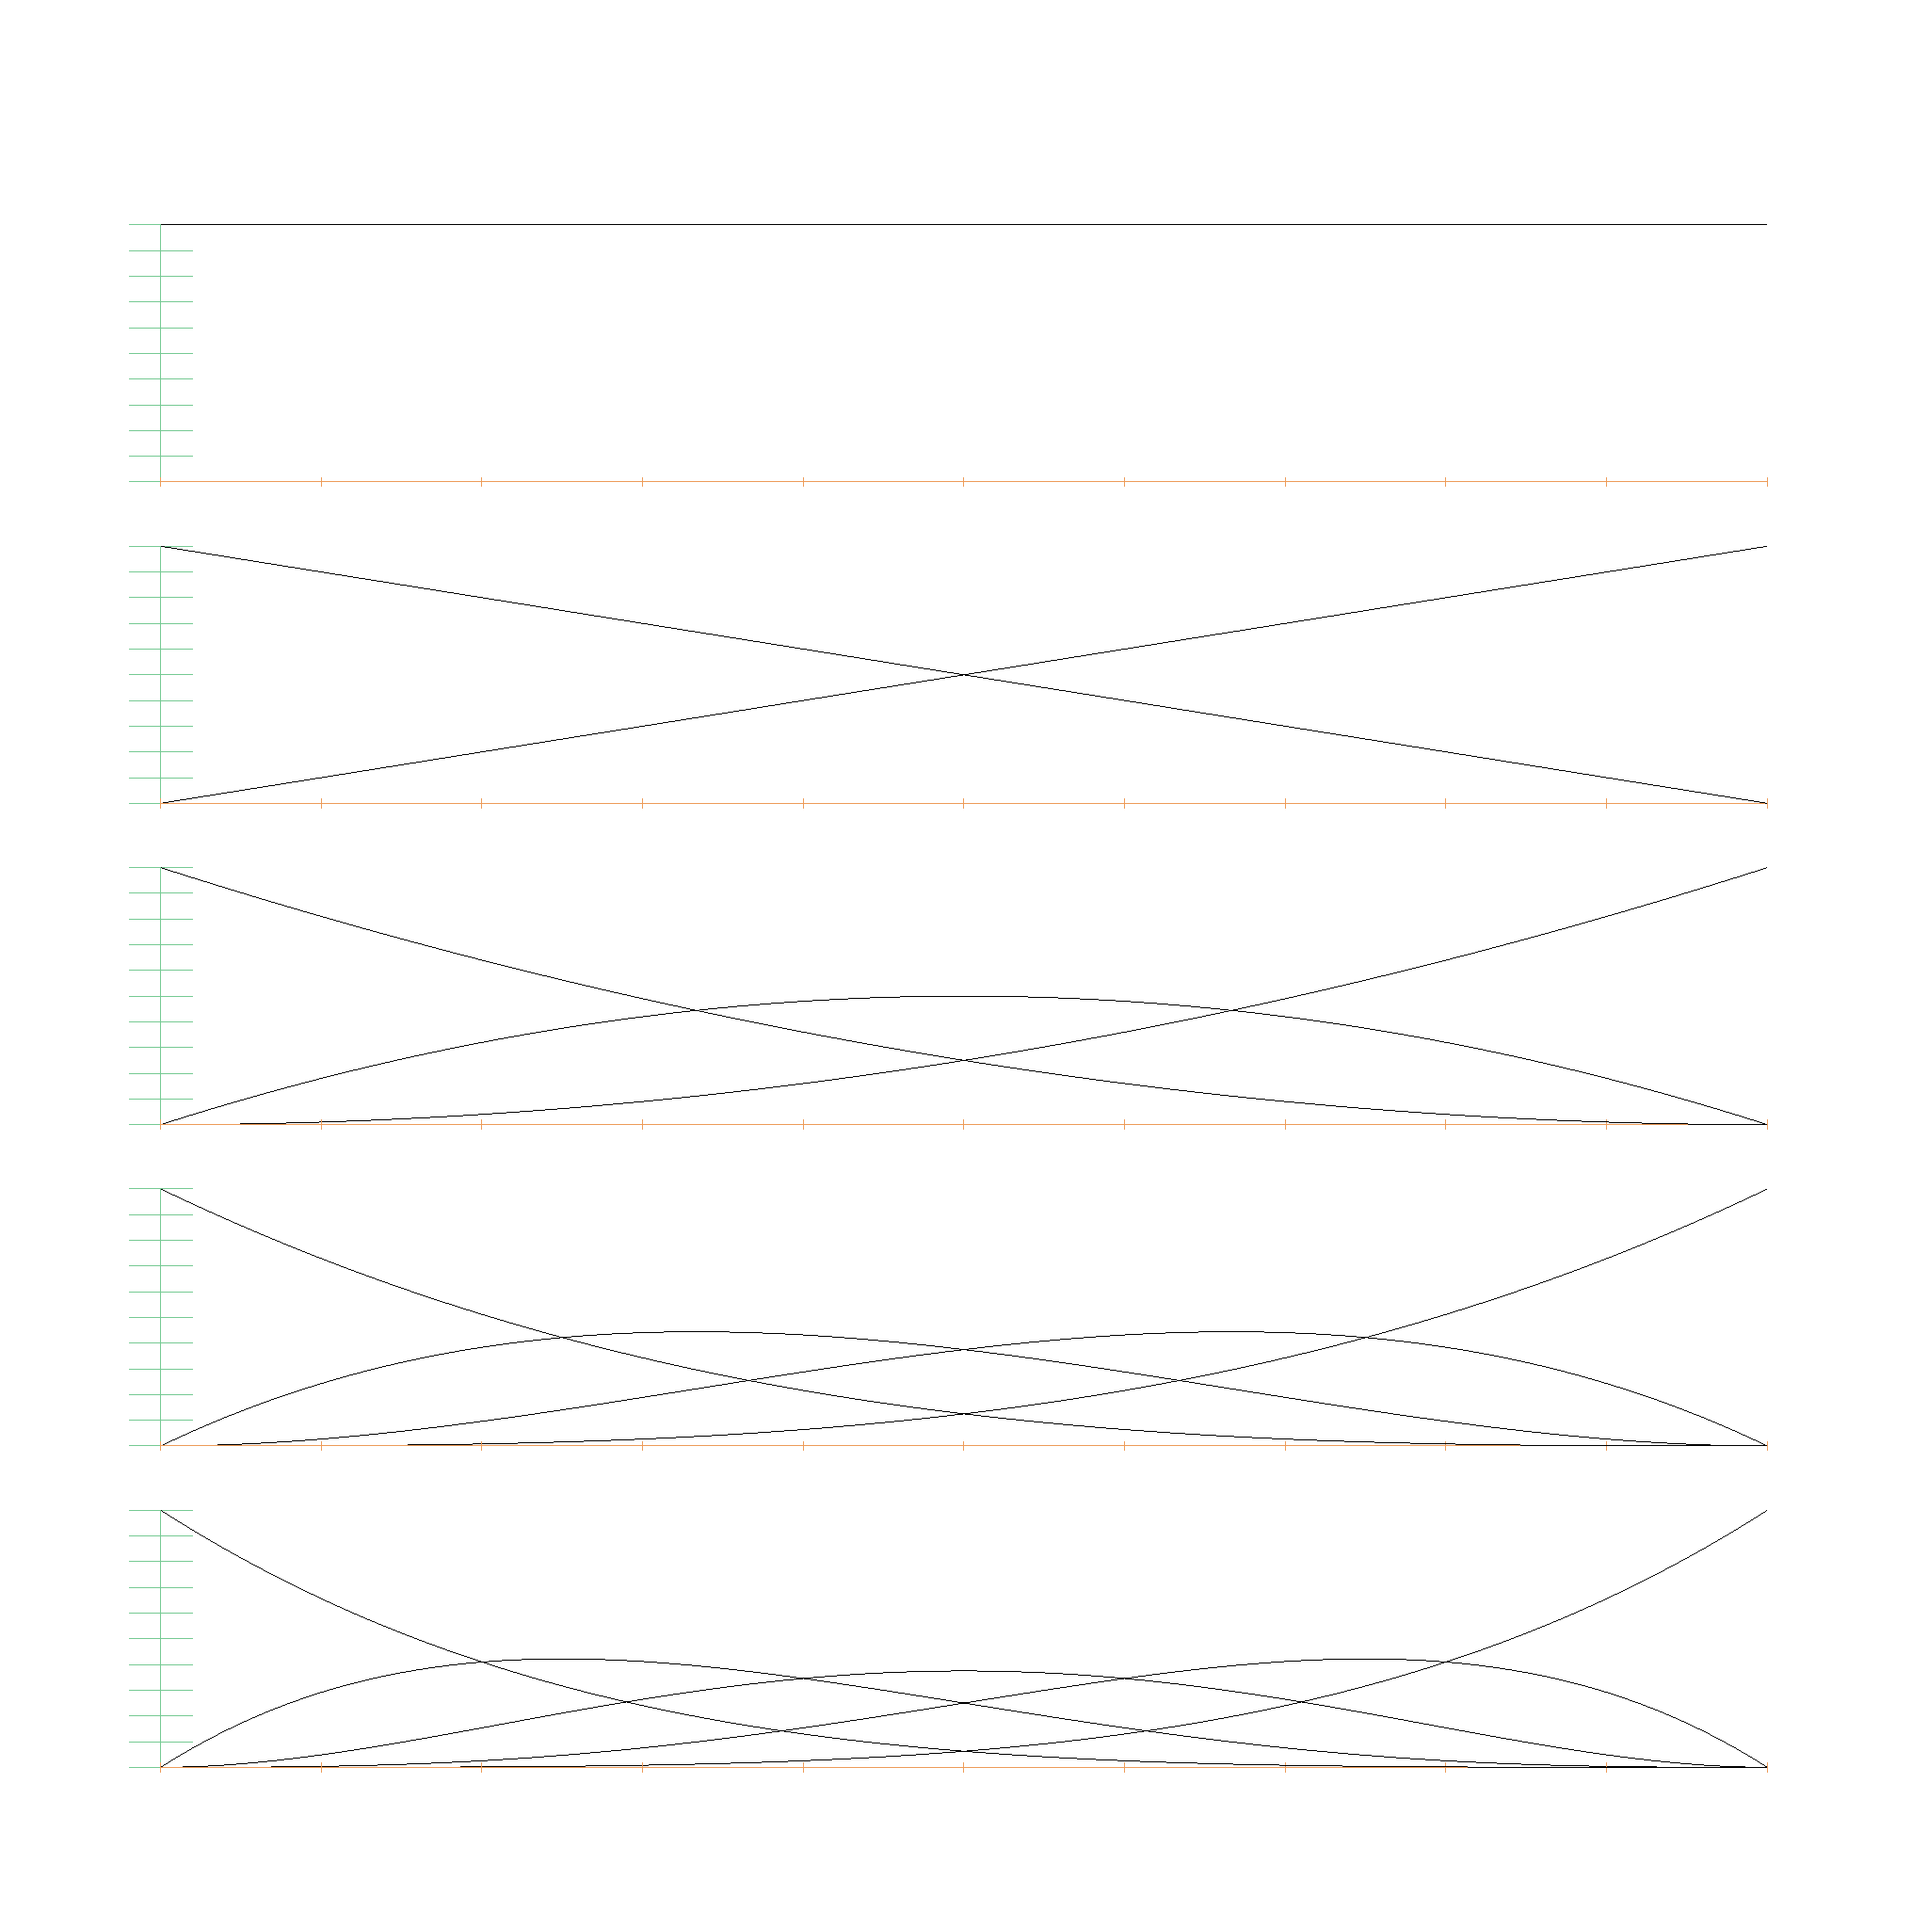
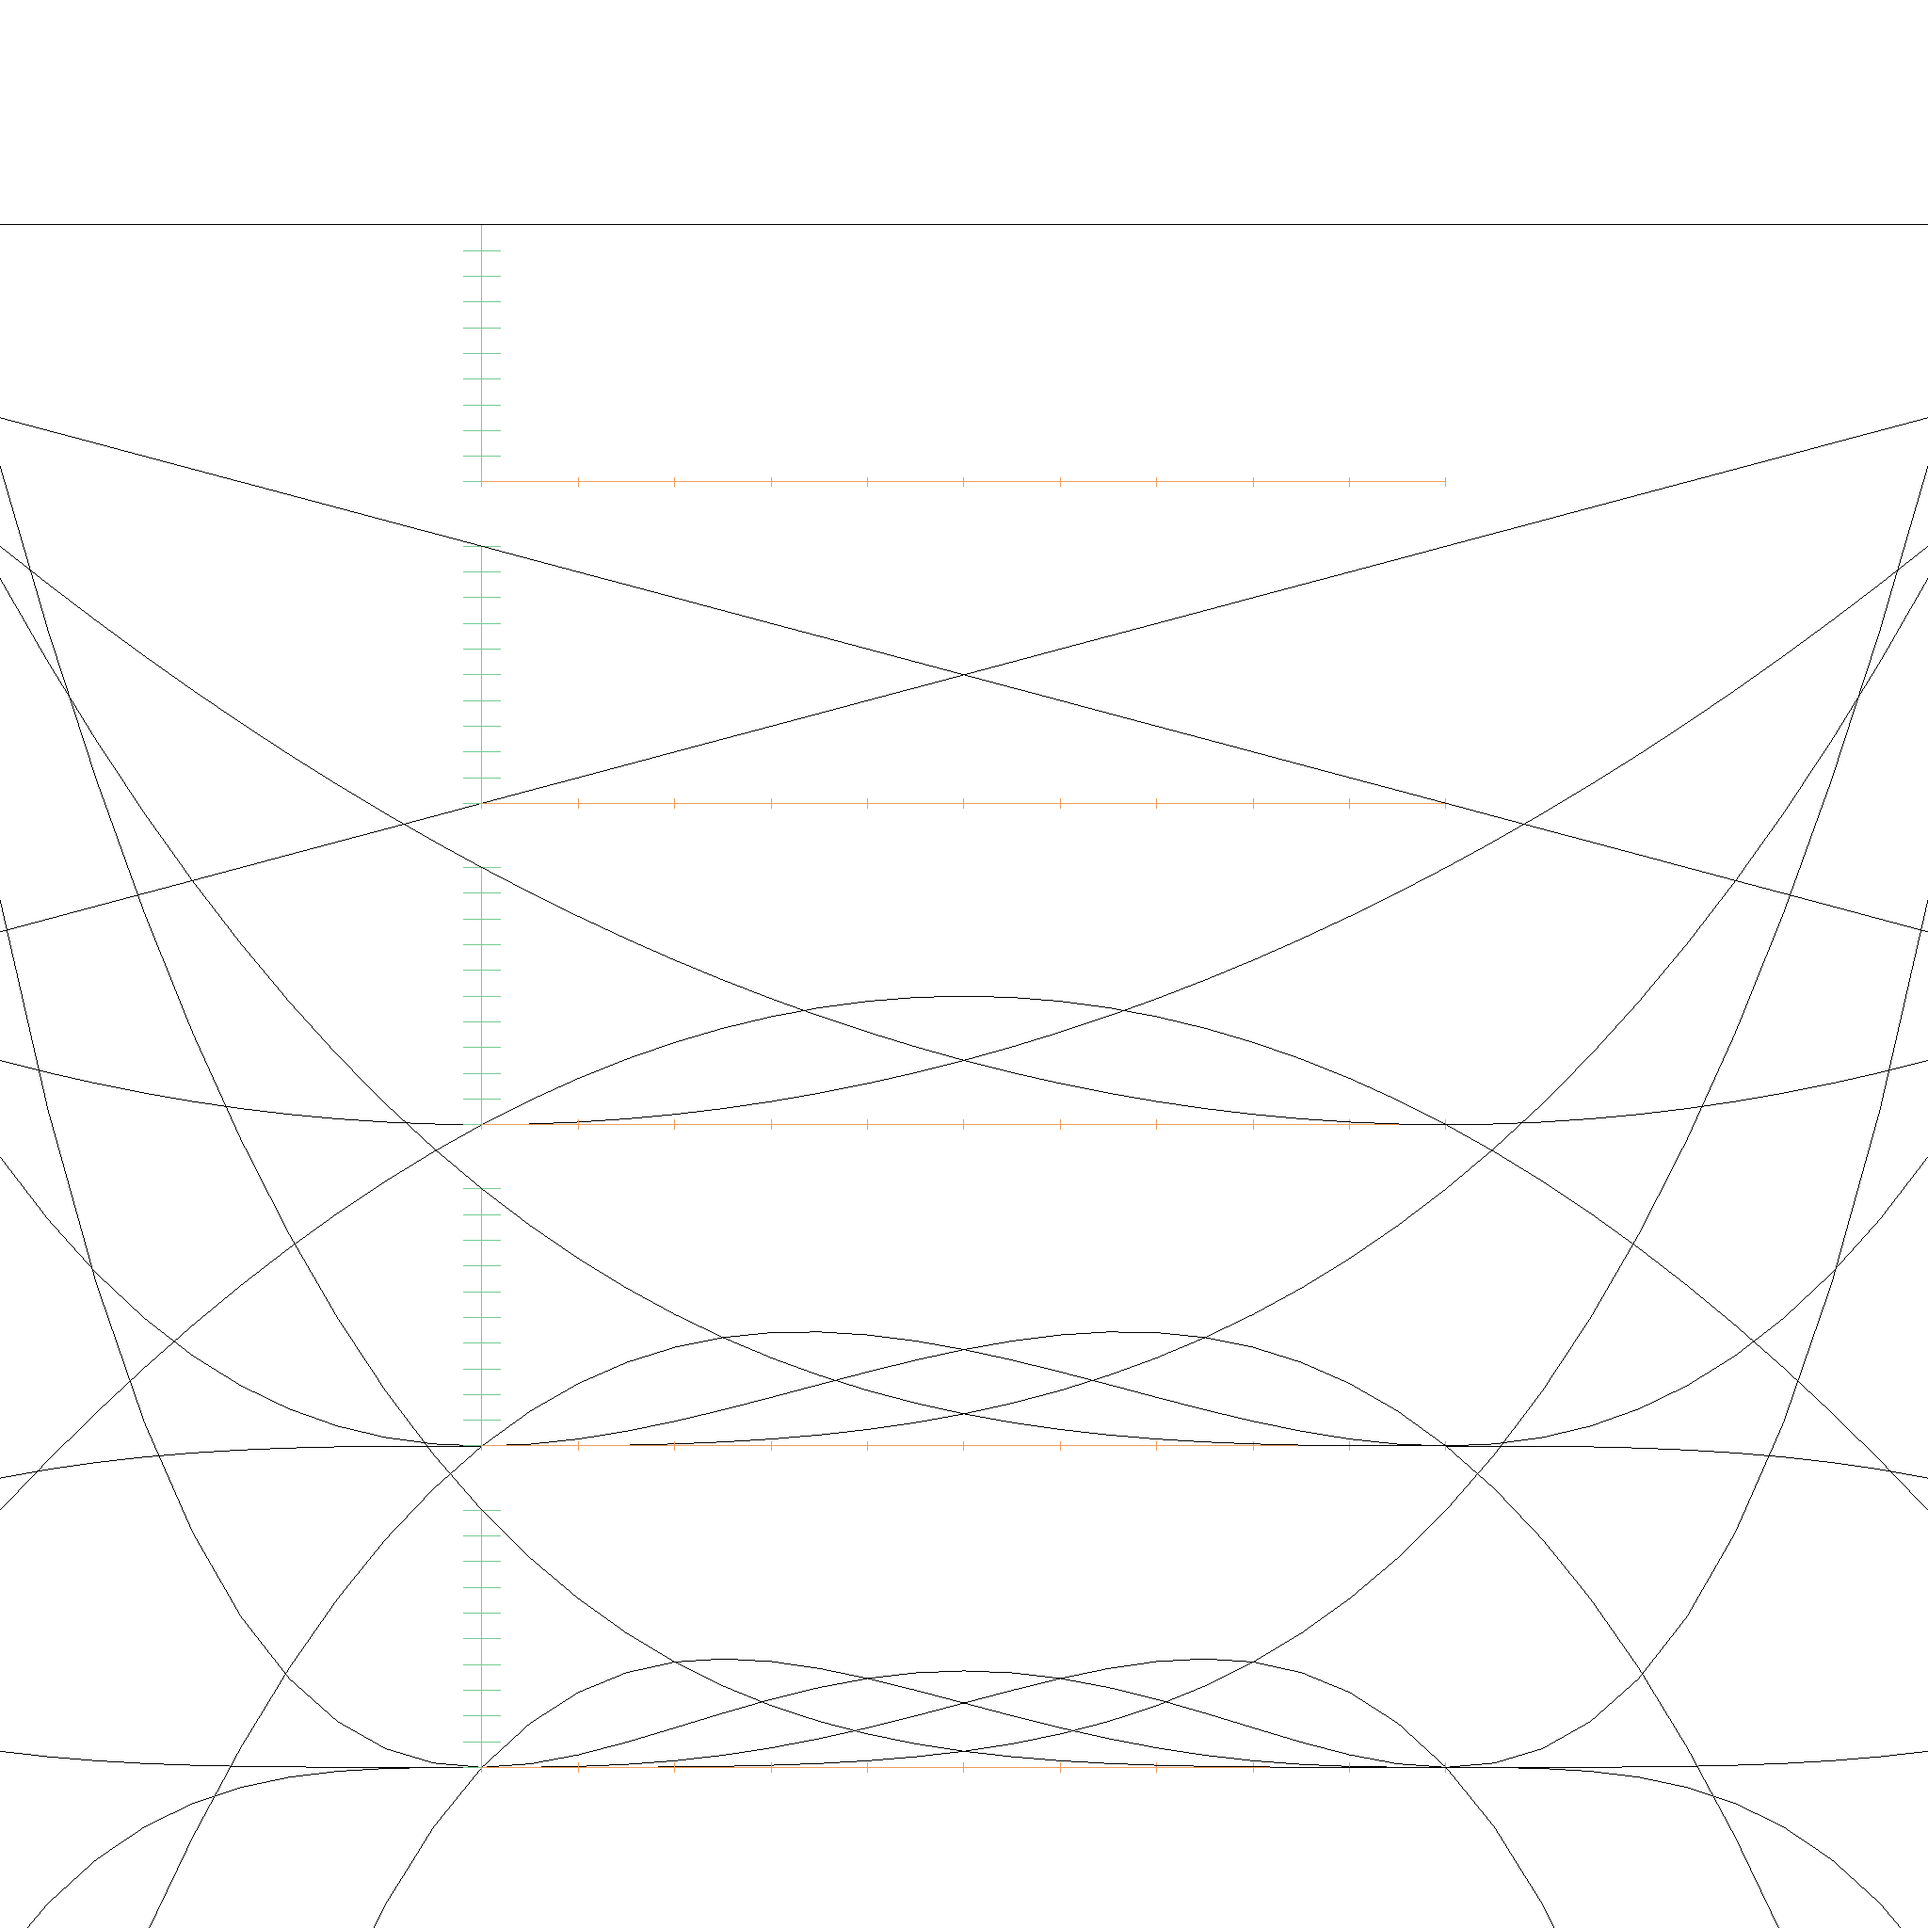
Bernstein extrapolation

diff --git a/crates/modern-brep-kernel-book/src/graphics/algebra/bernstein.rs b/crates/modern-brep-kernel-book/src/graphics/algebra/bernstein.rs
@@ -58,7 +58,8 @@ mod tests {
         for n in 0..max_n {
             for i in 0..=n {
                 let curve = BernsteinBasis::new(i, n).unwrap();
-                let mut edge_buffer_i = rasterize_onedimensional_function(&curve, Color::black());
+                let mut edge_buffer_i =
+                    rasterize_onedimensional_function(&curve, Color::black(), -2.0, 3.0);
                 let t =
                     Transform::from_translation(
                         Point::unit_y() * EFloat64::from((max_n - 1 - n) as f64 / max_n as f64),
@@ -83,7 +84,7 @@ mod tests {
                 edge_buffer,
                 TriangleBuffer::empty(),
                 false,
-                (-0.1, 1.1),
+                (-0.5, 1.5),
                 (-0.1, 1.1),
                 std::path::Path::new("src/generated_images/algebra/bernstein_basis.png"),
             )

diff --git a/crates/geop-rasterize/src/functions.rs b/crates/geop-rasterize/src/functions.rs
@@ -80,12 +80,14 @@ pub fn rasterize_multidimensional_function_in_1d(
 pub fn rasterize_onedimensional_function(
     edge: &impl OneDimensionFunction,
     color: Color,
+    x_min: f64,
+    x_max: f64,
 ) -> EdgeBuffer {
     let n = 100;
     let mut edges = Vec::<RenderEdge>::with_capacity(n);
     for j in 0..n {
-        let v1 = (j as f64) / n as f64;
-        let v2 = ((j + 1) as f64) / n as f64;
+        let v1 = (j as f64) / n as f64 * (x_max - x_min) + x_min;
+        let v2 = ((j + 1) as f64) / n as f64 * (x_max - x_min) + x_min;
         edges.push(RenderEdge::new(
             Point::unit_x() * EFloat64::from(v1) + Point::unit_y() * edge.eval(EFloat64::from(v1)),
             Point::unit_x() * EFloat64::from(v2) + Point::unit_y() * edge.eval(EFloat64::from(v2)),

diff --git a/crates/modern-brep-kernel-book/src/graphics/algebra/monomial_polynom.rs b/crates/modern-brep-kernel-book/src/graphics/algebra/monomial_polynom.rs
@@ -27,7 +27,12 @@ mod tests {
             EFloat64::from(1.8),
             EFloat64::from(-1.7),
         ]);
-        edge_buffer.join(&rasterize_onedimensional_function(&curve, Color::black()));
+        edge_buffer.join(&rasterize_onedimensional_function(
+            &curve,
+            Color::black(),
+            0.0,
+            1.0,
+        ));
 
         let mut renderer = renderer.await;
         renderer

diff --git a/crates/modern-brep-kernel-book/src/chapter_1_algebra_bernstein.md b/crates/modern-brep-kernel-book/src/chapter_1_algebra_bernstein.md
@@ -14,6 +14,8 @@ Here is a picture of the Basis functions from \\(B_{0, 0}\\) (top) to \\(B_{0, 5
 
 ![Bernstein Basis Functions](./generated_images/algebra/bernstein_basis.png)
 
+Many people forget that Bernstein Polynomials are defined on the entire real number range, not just on the interval \\([0, 1]\\). This means we could extrapolate far beyond the control points, but they spiral out of control quite quickly. However, monomial polynomials are also defined on the entire real number range, so it is nice that we can approximate them entirely with a couple control points.
+
 And this is the Bernstein polynomial with coefficients `0.0, 0.6, 0.1, 0.8, 0.3`:
 
 ![Bernstein Function](./generated_images/algebra/bernstein.png)
